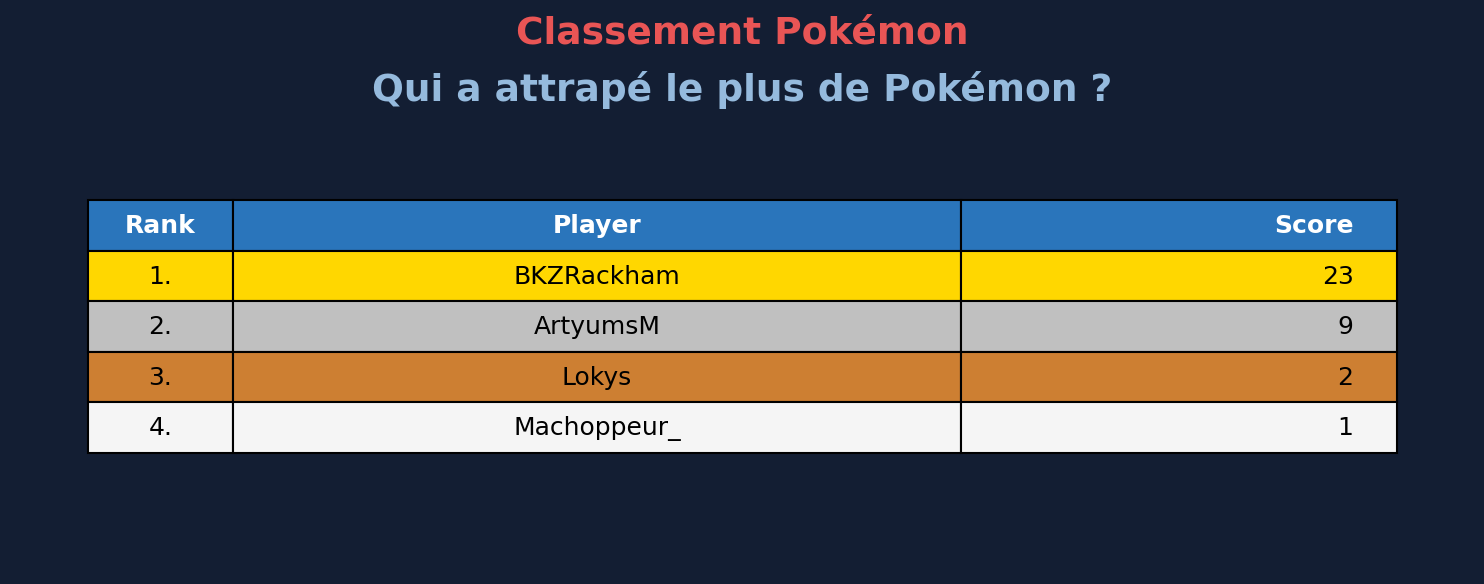
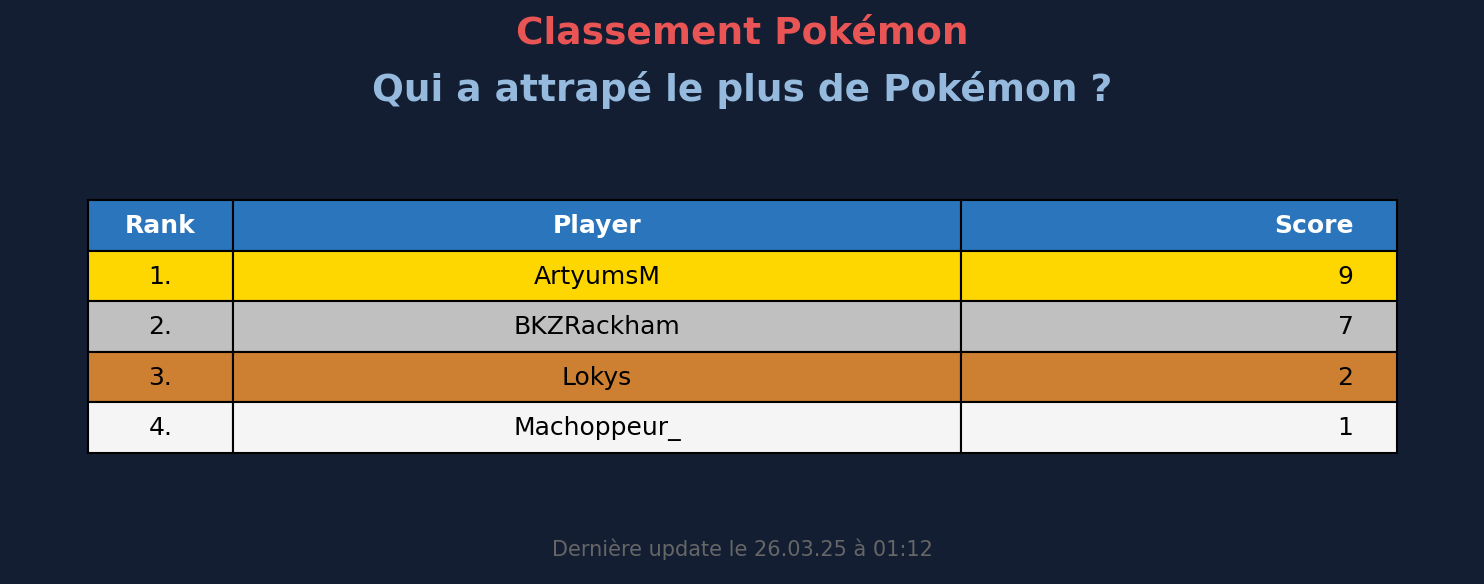
finish update

diff --git a/main.py b/main.py
@@ -557,7 +557,7 @@ df = df.dropna(how='all')
 title = df.iloc[0, 1]
 players = [] #rank, player, score
 col_name = ["Rank", "Player", "Score"]
-date_srt = df.iloc[-1, 1]
+date_str = df.iloc[-1, 1]
 for i in range(1, len(df)):
     if not pd.isna(df.iloc[i, 1]) and not pd.isna(df.iloc[i, 2]) and not pd.isna(df.iloc[i, 3]):
         print(df.iloc[i, 1], df.iloc[i, 2], df.iloc[i, 3])
@@ -626,6 +626,13 @@ title = ax.text(0.5, 0.95, 'Qui a attrapé le plus de Pokémon ?',
         fontsize=18, fontweight='bold',
         color='#95BADD')  # Bleu Pokémon
 
+ax.text(0.5, 0.02,
+        date_str,
+        transform=ax.transAxes,
+        ha='center',
+        va='bottom',
+        fontsize=10,
+        color='#666666')
 
 plt.tight_layout()
 plt.savefig('classement_pokemon.png',
